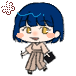
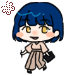
修改滑鼠游標

Changed region(s): [[0.1579, 0.0263, 0.8684, 1.0], [0.6579, 0.1842, 0.6842, 0.2632]]

diff --git a/index.html b/index.html
@@ -124,11 +124,6 @@
       font-weight: 400;
       font-size: 24px;
     }
-    
-    .font-sans {
-      font-family: '芫荽', cursive;
-      font-weight: 400;
-    }
 
     .font-sans {
       font-family: '芫荽', cursive;
